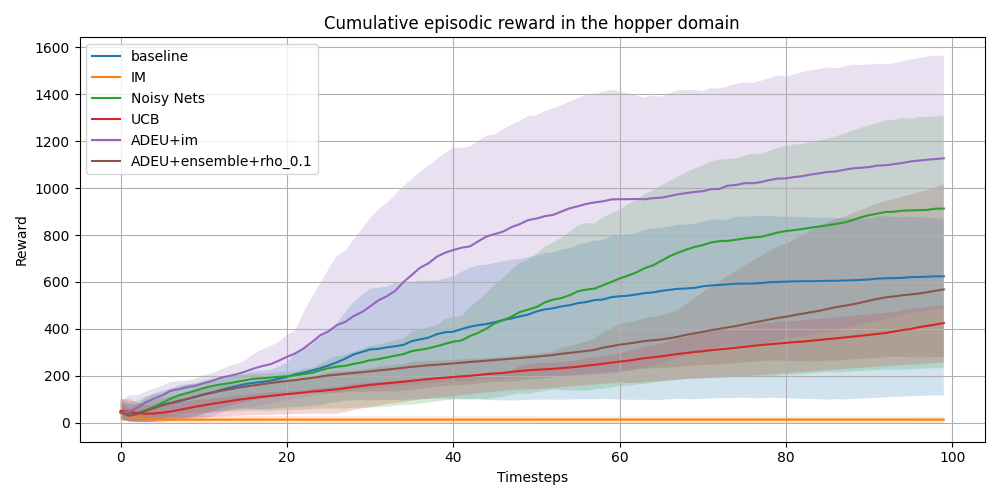
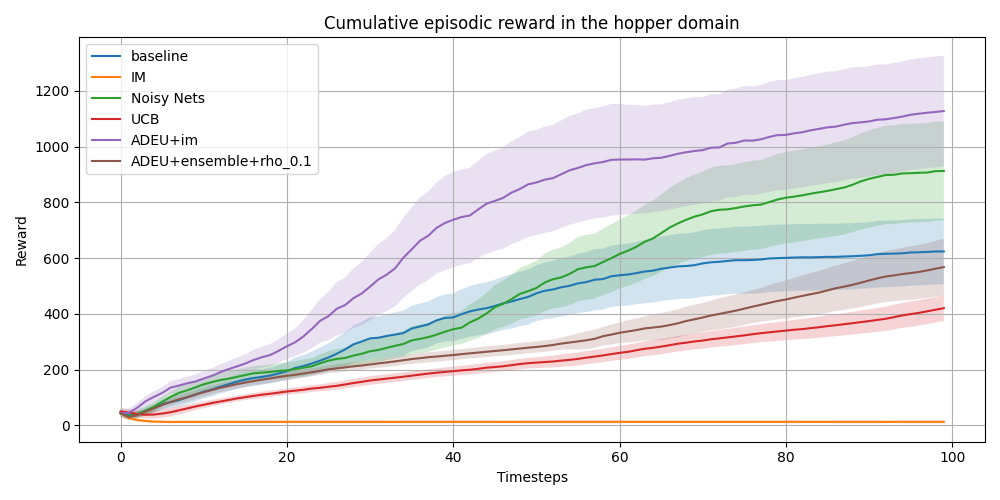
addintg the new graph

diff --git a/process_wandb_data.py b/process_wandb_data.py
@@ -15,6 +15,17 @@ CODES_MAP={'code: 0':'baseline',
            'code: 12': 'sADEU + unc.'
            }
 
+CODES_TO_PATHS = {
+    'code: 0': 'Baseline',
+    'code: 1': 'ade',
+    'code: 2': 'rnd',
+    'code: 3': 'noisy_nets',
+    'code: 5': 'UCB',
+    'code: 6': 'Adeu+ensemble',
+    'code: 21': 'ade mod_rnd',
+    'code: 7': 'Adeu+ensemble'
+}
+
 
 def mean_values(df, codes, domain):
     values = {}
@@ -125,6 +136,7 @@ def ignore_outliers(df, iqr_scale=1.5):
 
 
 def create_graph(df, codes, domain):
+
     plt.figure(figsize=(10, 5))
 
     for i,c in enumerate(codes):
@@ -151,11 +163,77 @@ def create_graph(df, codes, domain):
     plt.legend()
     plt.grid(True)
     plt.tight_layout()
+    plt.savefig(path+f'/{domain}_cumulative_rewards_plot_with_std.png')
+    plt.show()
+
+
+def create_graph_2(df, codes, domain, seeds):
+    '''
+    This method outputs the same result as the create_graph(). The main (and only) difference is 
+    that this also outputs the variance instead of the minimum and maximum value
+    '''
+    plt.figure(figsize=(10, 5))
+
+    for i,c in enumerate(codes):
+        #rewards = df[c+' - cumm_evaluation_reward']
+        variance, rewards = get_variance(c, seeds, domain)
+        rewards = df[c+' - cumm_evaluation_reward']
+        #min_rewards = 1.25 * ignore_outliers(min_rewards) #1.5 except humanoid and swimmer and walker  in which I set it to 1.25
+        #max_rewards = 0.65 * ignore_outliers(max_rewards) #0.5 except humanoid and swimmer and walker (max 0.65) in which I set it to 0.85
+        variance = 0.5 * ignore_outliers(pd.Series(variance))
+        rewards = ignore_outliers(rewards)
+        #rewards = pd.Series(rewards)
+
+        rewards = exponential_smoothing(y_values=rewards, x_values=np.arange(len(rewards)), smoothing_param=0.5)
+        variance = exponential_smoothing(y_values=variance, x_values=np.arange(len(variance)), smoothing_param=0.5)
+        #min_rewards = exponential_smoothing(y_values=min_rewards, x_values=df['Step'], smoothing_param=0.5)
+        #max_rewards = exponential_smoothing(y_values=max_rewards, x_values=df['Step'], smoothing_param = 0.5)
+        rewards = np.array(rewards)
+
+        # Plotting
+        #x = np.arange(n_points)
+        plt.plot(np.arange(len(variance)), rewards, label=CODES_MAP[c])
+        plt.fill_between( np.arange(len(variance)), rewards - variance, rewards + variance, alpha=0.2)
+        plt.title(f"Cumulative episodic reward in the {domain} domain")
+    plt.xlabel("Timesteps")
+    plt.ylabel("Reward")
+    plt.legend()
+    plt.grid(True)
+    plt.tight_layout()
     plt.savefig(path+f'/{domain}_cumulative_rewards_plot.png')
     plt.show()
 
+
+def get_variance(code, seeds, domain):
+    if domain == 'walker':
+        domain = 'walker2d'
+    domain = domain[0].upper() + domain[1:]
+    domain +='-v5'
+    
+    variances = []
+    rewards = []
+    for s in range(seeds):
+        path = f'experiments/TD3/{domain}/{CODES_TO_PATHS[code]}/seed_{s}/stored_data/cum_evaluation_rewards.npy'
+        variances.append(np.load(path))
+        rewards.append(np.load(path))
+
+    rewards = np.array(rewards)
+    rewards = np.mean(rewards, axis= 0)
+    variances = np.array(variances)
+    variances = np.std(variances, axis=0, ddof=1) 
+
+    # Find last nonzero index
+    last_nonzero_idx = np.max(np.nonzero(rewards))
+
+    # The first all-zero index is one after that
+    first_all_zero_idx = last_nonzero_idx + 1 if last_nonzero_idx + 1 < len(rewards) else None
+    return variances[:first_all_zero_idx], rewards[:first_all_zero_idx]
+
+
 if __name__=='__main__':
+    # 'domain' variable refers to the aaai_wandb... path
     domain = 'hopper'
+    seeds = 10
     path = 'aaai_wandb_results/'
     file = path+f'{domain}_cumulative_rewards.csv'
     #file = f'aaai_wandb_results/{domain}_conflicts.csv'
@@ -167,5 +245,5 @@ if __name__=='__main__':
     print_results(results = values)
     print('______________________________')
 
-
-    create_graph(df, codes, domain)
+    
+    create_graph_2(df, codes, domain, seeds = seeds)

diff --git a/td3_main.py b/td3_main.py
@@ -196,6 +196,14 @@ def main(seed, horizon, timesteps, domain, ade, use_rnd, ucb, noisy_nets, comb, 
     agent_params['networks_uncertainty'] = UNCERTAINTY
     agent_params['pretraining_time'] = pretraining
     agent_params['total_timesteps'] = total_timesteps
+
+
+    if code == 6: #this is used only to seperate the adeu+ensemble with rho = 0 and rhos = 0.1
+        filename+='/rho0/'
+        if not os.path.exists(filename+'/stored_data'):
+            os.makedirs(filename+'/stored_data')
+
+
     store(filename, mean_reward, rewards, mean_evaluation_rewards, evaluation_rewards,  evaluation_duration, cum_evaluation_rewards, arg_var_per_epsiode, var_per_episode, params = agent_params)    
     
     if not comb or ucb: store_network(agent=agent, path = filename)
@@ -449,7 +457,7 @@ if __name__ == '__main__':
 
         
 
-    seeds = 10
+    seeds = 20
     
     mean_evaluation_rewards = []
     code = code_creation(adaptive_exploration=ade, 
@@ -463,7 +471,7 @@ if __name__ == '__main__':
                                            rho = rho)
     print(f"{domain} + code:{code}")
 
-    for s in range(0, seeds):
+    for s in range(10, seeds):
         main(seed = s, 
              horizon=horizon, 
              timesteps=timesteps, 
